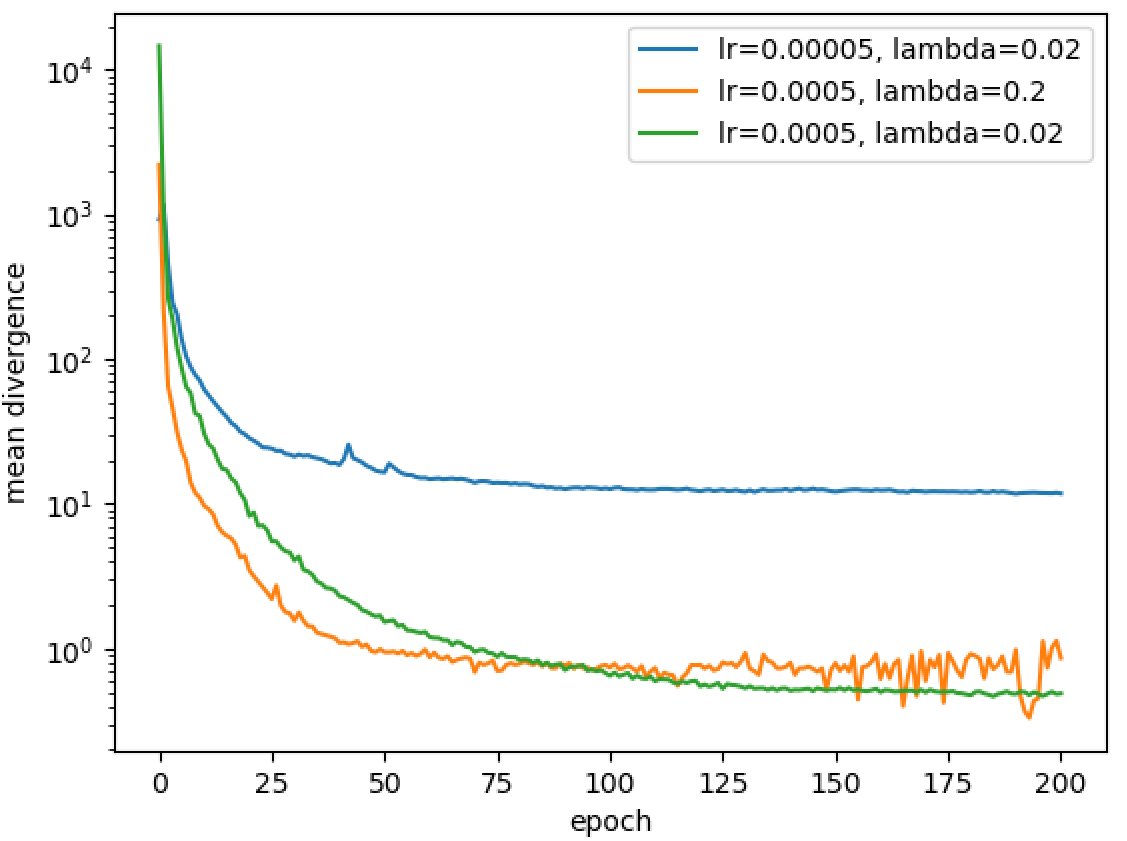
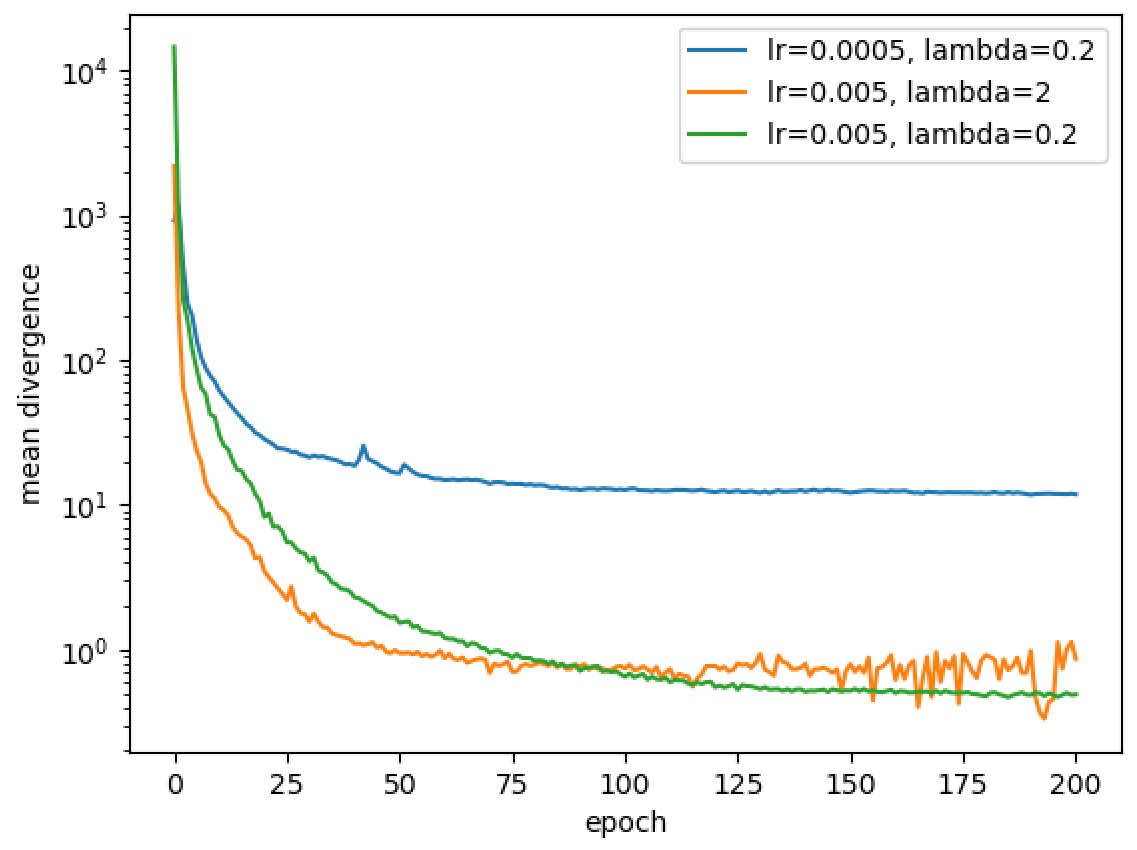
fixed 1st graph, updated post_process.py

Changed region(s): [[0.0, 0.0, 0.9938, 0.9893]]

diff --git a/post_process.py b/post_process.py
@@ -9,7 +9,7 @@ import matplotlib.pyplot as plt
 
 # ------------------------------------------------------------------------- Global Variables
 DATA_DIR = ".\data"
-LABELS = ["lr=0.00005, lambda=0.02", "lr=0.0005, lambda=0.2", "lr=0.0005, lambda=0.02"]
+LABELS = ["lr=0.0005, lambda=0.2", "lr=0.005, lambda=2", "lr=0.005, lambda=0.2"]
 LABELS_SINGULARITY = ["removed 9.38% points around singularity", "removed 21.8% points around singularity"]
 
 # ------------------------------------------------------------------------- Divergence
@@ -28,7 +28,7 @@ for filename in os.listdir(DATA_DIR):
         plt.plot(range(len(dr)),dr)
 
 # show plot
-plt.legend(LABELS_SINGULARITY)
+plt.legend(LABELS)
 plt.yscale('log')
 plt.ylabel('mean divergence')
 plt.xlabel('epoch')
